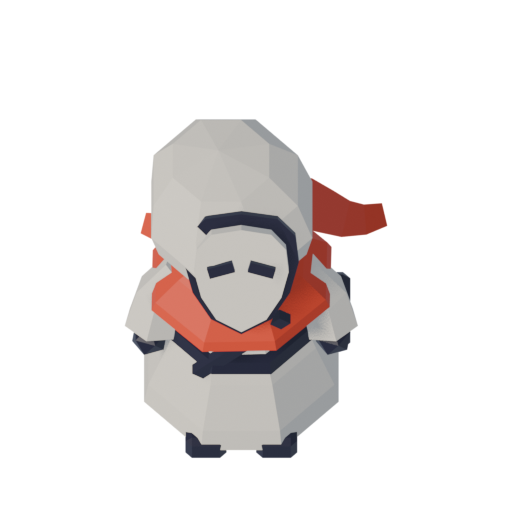
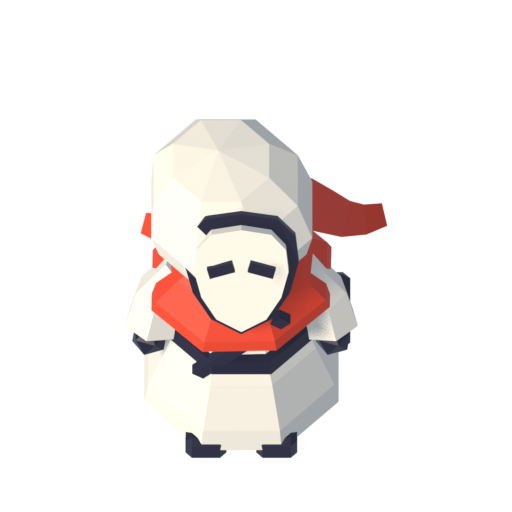
Render courier preview with Standard view transform for faithful palette colour

Changed region(s): [[0.25, 0.2188, 0.625, 0.9062], [0.5938, 0.625, 0.6562, 0.6875]]

diff --git a/art/scripts/actor_courier_body.py b/art/scripts/actor_courier_body.py
@@ -115,13 +115,13 @@ for side, length, droop, spread, width in ((1, 0.2, 0.36, 0.26, 0.13), (-1, 0.14
 scarf_obj = asset.mesh('scarf', scarf, location=(0, 0, NECK_Z - HIP_Z), parent=body_obj)
 
 if MCP_ARGS.get('views') == '1':  # noqa: F821 - debug renders, not committed
-    ob.render_preview(asset, 'art/logs/courier_front.png', size=512, pitch_deg=8.0)
-    ob.render_preview(asset, 'art/logs/courier_side.png', size=512, pitch_deg=8.0, yaw_deg=90.0)
+    ob.render_preview(asset, 'art/logs/courier_front.png', size=512, pitch_deg=8.0, view_transform='Standard')
+    ob.render_preview(asset, 'art/logs/courier_side.png', size=512, pitch_deg=8.0, yaw_deg=90.0, view_transform='Standard')
 
 if MCP_ARGS.get('dry') == '1':  # noqa: F821 - injected by scripts/blender-mcp.mjs
     print(ob.stats(asset))
 else:
-    ob.finish(asset, budget_triangles=2000, budget_materials=3, pitch_deg=58.0,
+    ob.finish(asset, budget_triangles=2000, budget_materials=3, pitch_deg=58.0, view_transform='Standard',
               notes=('Stolen courier body. Ivory robe and cowl, black hood opening framing an enlarged ivory mask '
                      'tilted 36 deg up toward the game camera, slanted eye slits, dark boots/belt/satchel, '
                      'vermilion shawl over the shoulders (rings the mask from above) with two broad tails falling back and out, flat faces turned to the camera so they read as cloth at ~40 px. '
